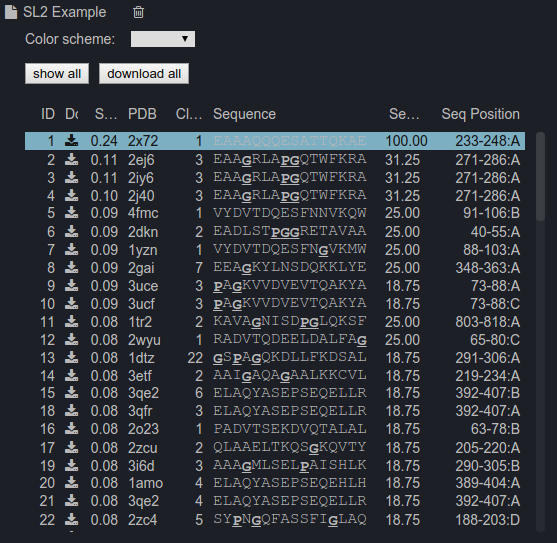
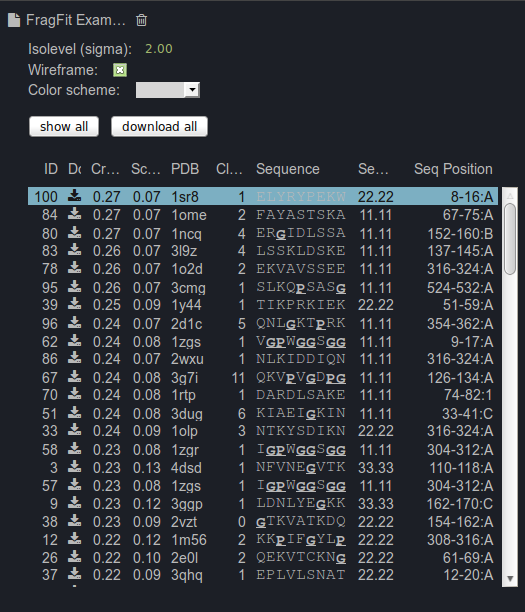
FragFit website

diff --git a/www/fragfit/navi.html b/www/fragfit/navi.html
@@ -2,7 +2,7 @@
 	<div class="leftcol">
             <div class="header" align="center">
 				<a href="start.php" style="display:block;">
-						<img src="pictures/logo.png" width="140" height="148" alt="Logo" border="0">
+						<img src="pictures/logo.png" width="50%" height="50%" alt="Logo" border="0">
 				</a>
             </div>
             <br>

diff --git a/www/fragfit/manual.php b/www/fragfit/manual.php
@@ -21,28 +21,28 @@
     <h3>Start</h3>
     <tr>
         <td > <br><a>
-		The SL2 start display has two different panels. In the upper left
+		The FargFit start display has two different panels. In the upper left
 		corner you find the general controls for the NGL viewer, located
-		in dropdown menus. The right panel contains the SL2 controls: a
-		button to start new jobs or to load an example. <br>  </a></td>
-        	<td ><img src="pictures/website_overview.png" alt="logo"></td>
+		in dropdown menus. The right panel contains the FargFit controls: a
+		button to start new jobs, to load an example or to load existing results. <br>  </a></td>
+        	<td ><img src="pictures/website_overview.png" width ="100 %", Height=" 100%" alt="logo"></td>
     </tr>
     </tbody></table>
     <table><tbody>
-    <h3>SL2 job</h3>
+    <h3>FragFit job</h3>
     <tr>    
        <td>
 	<h5> Start search</h5><a>
        
-	   To start a new SL2 job you have to provide a coordinate file of a protein structure in PDB format.
+	   To start a new FragFit job you have to provide a coordinate file of a protein structure in PDB format and an cryo-EM map in MRC or CCP4 format.
+	
+	   To reduce the computation time it can be useful to upload a map containing only the direct vicinity of the missing fragment. 
 	   The two stem residues flanking a missing segment or a segment that should be remodeled have to be
 	   typed in a form or selected from the NGL visualization by mouse selection. To clear the stem residues
 	   from the form use the 'clear stems' button, afterwards, they can be filled by mouse selection again.
-	   Finally, the amino acids sequence of the missing segment has to be provided. To search for loops only
-	   originating from membrane proteins check the MembraneDB check-box, otherwise the full database will be
-	   searched. Additionally, the membrane can be calculated by applying informations from
+	   Finally, the amino acids sequence of the missing segment and the resolution of the cryo_EM map have to be provided.  Additionally, the membrane can be calculated by applying informations from
 	   TMDET <a target="_self" href="references.php">[6]</a> and some further processing.
-	   Depending on fragment length, a fragment search may take up to 30 seconds. When the job is
+	   Depending on fragment length, a fragment search may take up to 2 minutes. When the job is
 	   finished, the results are displayed automatically.</a>
        
       <h5> Modify search</h5>
@@ -59,15 +59,15 @@
     <h3>Results</h3> 
     <tr>
         <td><a>
-		The top candidate loop is automatically displayed in the NGL viewer together with the uploaded protein (model).
+		The top candidate loop is automatically displayed in the NGL viewer together with the uploaded protein (model) and the user provided cryo-EM map.
 		Other loops can be selected from the list of 50 candidates by visualization or by using the information
 		provided in the table at the right panel for guidance. This table includes the following information for
-		each candidate loop: an ID, a score, a clash score, the PDB ID and the position of the fragment in the
+		each candidate loop: an ID,a correlation score, a score describing the steric fit of the segment, a clash score, the PDB ID and the position of the fragment in the
 		template protein and a comparison of the user-defined input sequence with the template sequence (sequence similarity).
 		Sequences that are underlined contain prolines or glycines.
 		<br>
 		 By selecting a result, the loop is displayed together with the uploaded protein. The complete list of loop candidates can be displayed
-		simultaneously to visualize the conformational space of the loop. The loop can be colored according to its score, sequence identity or
+		simultaneously to visualize the conformational space of the loop. The loop can be colored according to its score, correlation score, sequence identity or
 		clash score by selecting the corresponding color scheme from the dropdown menu. Additionally, the representation of the structure and
 		the loop (collapsed underneath the result table) can be changed as explained separatly in the documentation of the NGL viewer. 
 		The completed structure (initial model plus selected loop) can be downloaded by clicking the download symbol. Alternatively, the complete

diff --git a/www/fragfit/methods.php b/www/fragfit/methods.php
@@ -82,11 +82,16 @@
 	by a score calculated from the sequence similarity and matching of the geometrical
 	fingerprints of the (template) fragment and the target segment. To maximize the
 	conformational space, fragments with an identical sequence or a backbone RMSD
-	smaller than 1 &Aring are removed from the results list.</p>
+	smaller than 1 &Aring are removed from the results list.<br><br>
+	To minimize computation time, a minimal box containing the density of the missing fragment is extracted from the experimental map. The box size of the cryo-EM density map is reduced during two preprocessing steps. First, the box size is estimated from the maximum fragment length (i.e. assuming an unstructured conformation with maximal extend) and the distance between its stem atoms ('latitude'). A box is then cut out from the experimental EM-map with an edge length that doubles this latitude value and with its center at the midpoint between the two stem- atoms. 
+Second, to prevent taking into account densities already occupied by atoms, these densities are deleted from the box prior calculation of cross correlation. For that purpose, existing structures within the minimal box are first converted into artificial densities with the intensity levels adjusted to the values of the experimental map. With a simple arithmetic operation, the artificial map is subtracted from the experimental map. These preprocessing steps therefore not only improve calculation time, but also performance. 
+Finally the found fitting fragments are re-scored according to their cross-correlation to this preprocessed cryo-EM map.</p>
         <div id="teaser" align="center">
         <img src="pictures/workflow.png" width="40%" height="40%" alt="logo" align=middle>
 	 <h2>Membrane planes</h2>
-	 <p>For the calculation of the membrane planes we employ the web-service TMDET.
+	 <p>
+	If the 
+	For the calculation of the membrane planes we employ the web-service TMDET.
 	 As result of the calculation TMDET <a target="_self" href="references.php">[6]</a> provides a list of residues that tangent the membrane.
 	 From the coordinates  of C&alpha; atoms of these residues, we then calculate a best-fit plane
 	 which is displayed in NGL.</p>

diff --git a/www/fragfit/start.php b/www/fragfit/start.php
@@ -3,7 +3,7 @@
 <html lang="en">
 <head>
     <link rel="stylesheet" type="text/css" href="stylesheet.css">
-    <title>SL2</title>
+    <title>FragFit</title>
 </head>
 <body>
     <div id="container">
@@ -14,7 +14,7 @@
     <div id="content" class="content">
         <h1>FragFit</h1>
         <div id="teaser" align="center">
-        <img src="pictures/random2.png" width="40%" height="40%" alt="logo">
+        <img src="pictures/resultpicture.png" width="40%" height="40%" alt="logo">
         </div>    
         <h2>Motivation</h2>
         <div class="middleblock">
@@ -23,13 +23,14 @@
 	  </p><h3>An interactive tool for prediction, visualization and selection of missing segments in proteins with usage of Cryo-EM maps</h3>
 	  
            FragFit is an interactive web service for the insertion
-	   of missing segments such as loops in proteins. Loop candidates
-	   are selected from a pre-calculated database containing ~700 million
+	   of missing segments such as loops in proteins guided by cryo-EM data. Loop candidates
+	   are selected from a pre-calculated database containing ~900 million
 	   protein fragments with of 3-35 residues length. The fragments are
-	   extracted from structural coordinates deposited in the RSCB PDB <a target="_self" href="references.php">[4]</a>.
+	   extracted from structural coordinates deposited in the RSCB PDB <a target="_self" href="references.php">[4]</a>. The found fragment are then
+	   ranked by their cross-correlation to a user provided cryo-Em map.
 	   
            <h3>Visualization</h3>
-           Integration of the NGL viewer <a target="_self" href="references.php">[7]</a>, a molecular viewer based on WebGL,
+           Integration of the NGL viewer <a target="_self" href="references.php">[8]</a>, a molecular viewer based on WebGL,
 	   allows visualization and interactive selection of a loop from a
 	   list of 50 suitable candidates. A color code is provided to
 	   indicate clashes or  other relevant criteria to promote an

diff --git a/www/fragfit/faq.php b/www/fragfit/faq.php
@@ -16,7 +16,7 @@
         
        <h4> Is a registration required?</h4>
 <br>
-No, SL2 is free for all users and no login is required.
+No, FragFit is free for all users and no login is required.
 
 
 <h4>Which web-browsers are supported?</h4><br>
@@ -34,13 +34,13 @@ that are provided by every modern web-browser. Additional
 installations are not needed. Please make sure that you have updated your browser
 to the latest version.
 
-<h4>WHAT is the PURPOSE of sl2?</h4>
+<h4>WHAT is the PURPOSE of FragFit?</h4>
 <br>
-SL2 can be used to interactively insert protein segments, such as loops of 3 to 35 residues length, into gaps of protein structures.
+FragFit can be used to interactively insert protein segments, such as loops of 3 to 35 residues length, into gaps of protein structures guided by a cryo-EM map.
 
 <h4>What has to be provided to start a search?</h4>
 <br>
-The user has to upload a protein and specify the sequence of the destined
+The user has to upload a protein and a cryo-EM map and specify the sequence of the destined
 segment and the two stem residues of the gap where the segment has to be inserted.
 
 <h4>I get no results, what might be the problem?</h4><br>
@@ -55,6 +55,7 @@ The different colour schemes range from its min to its max value.
 Clash scheme: white (no clashes) to orange to red (many)
 <br>SequenceID scheme:  dark green (high) to light green (low)
 <br>Score scheme: green (high score --> better results) to blue (medium) to purple (low)
+<br>Correlation sheme: dark blue (high score --> better results)to  light blue to yellow (low)
 
 <h4>Can the completed structure be downloaded from the server?</h4>
 <br>
@@ -75,7 +76,9 @@ before further usage of the model.
 All found loops can be downloaded in a single PDB-file where the individual loops are separated by a model tag.<br>
 A single loop can be downloaded renumbered and inserted at the correct position in the user-provided structure file.
 
+<h4>What map formats are supported?</h4>
 
+<br>
 
 
 

diff --git a/www/fragfit/references.php b/www/fragfit/references.php
@@ -69,9 +69,18 @@
 					<span class="issue">21, 1276&#151;7</span>
 				</div>
 			</li>
-        <h2>Visualization</h2>
 			<li>
 				<div class="reference" id="7">
+					<span class="title">SPIDER and WEB: processing and visualization of images in 3D electron microscopy and related fields.</span>
+					<span class="authors">Frank,J. et al. </span>
+					<span class="magazine">J. Struct. Biol.</span>
+					<span class="year">(1996)</span>
+					<span class="issue">116, 190&#151;9</span>
+				</div>
+			</li>
+        <h2>Visualization</h2>
+			<li>
+				<div class="reference" id="8">
 					<span class="title">NGL Viewer: a web application for molecular visualization.</span>
 					<span class="authors">Rose, A.S. and Hildebrand, P.W.</span>
 					<span class="magazine">Nucleic Acids Res.</span>
@@ -81,7 +90,7 @@
 			</li>
         <h2>Further reading</h2>
 			<li>
-				<div class="reference" id="8">
+				<div class="reference" id="9">
 					<span class="title">FREAD revisited: Accurate loop structure prediction using a database search algorithm.</span>
 					<span class="authors">Choi, Y. and Deane, C.M.</span>
 					<span class="magazine">Proteins</span>
@@ -90,7 +99,7 @@
 				</div>
 			</li>
 			<li>
-				<div class="reference" id="9">
+				<div class="reference" id="10">
 					<span class="title">Fragment-based modeling of membrane protein loops: successes, failures, and prospects for the future.</span>
 					<span class="authors">Kelm, S. et al.</span>
 					<span class="magazine">Proteins</span>
